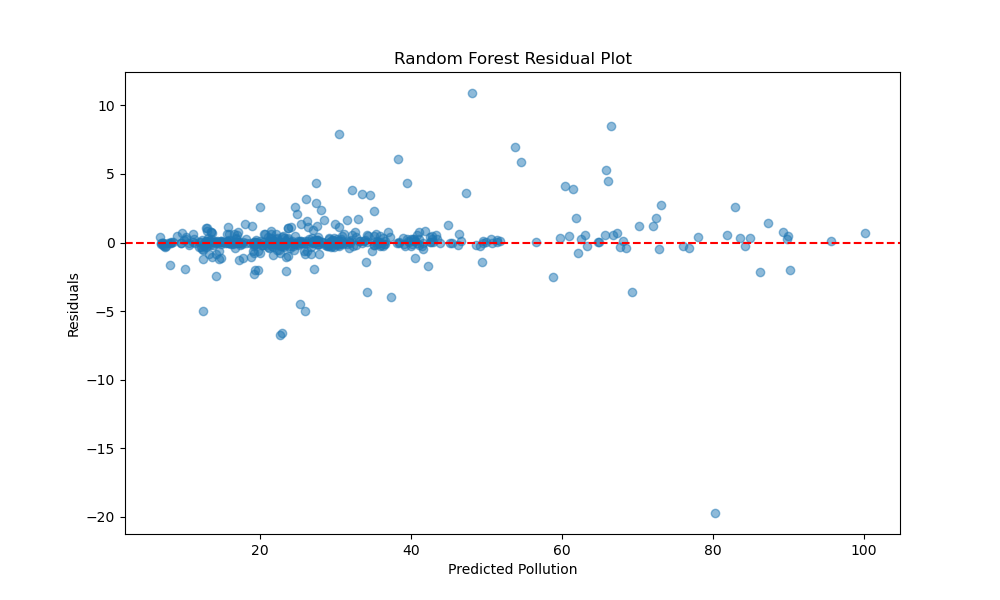
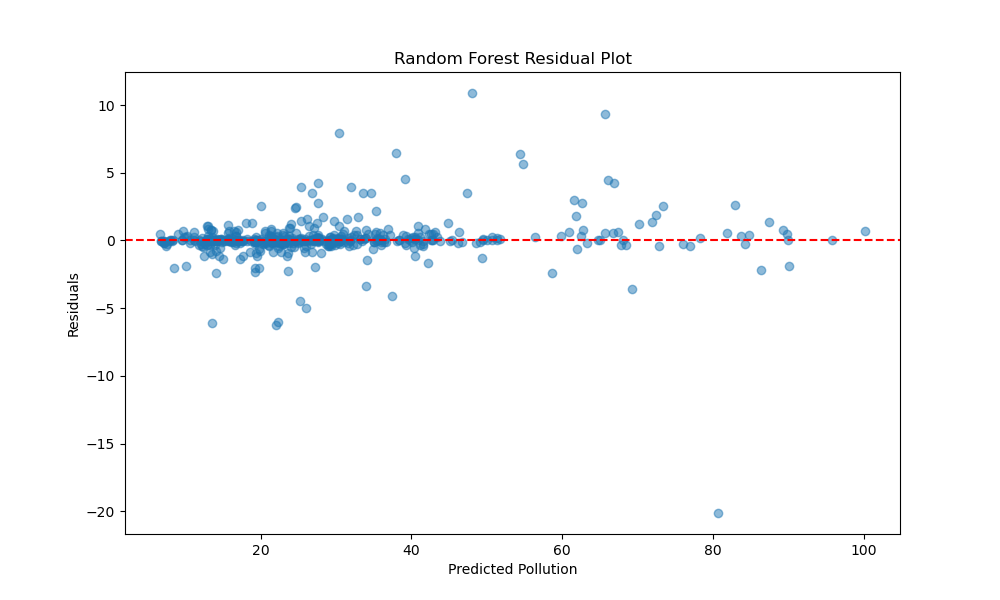
Added Grid Search to existing models.

diff --git a/linear_regression_model.py b/linear_regression_model.py
@@ -9,37 +9,26 @@ from process_data import get_processed_data
 
 def model(df):
 
-    # Selecting features and target variable
     X = df[['Population', 'CO2', 'GDP', 'Vehicles', 'VPC', 'Area']]
     y = df['Pollution']
 
-    # Splitting the data into training and testing sets
     X_train, X_test, y_train, y_test = train_test_split(X, y, test_size=0.1, random_state=42)
 
-   # Creating and training the linear regression model
     model = LinearRegression(n_jobs=-1)
     model.fit(X_train, y_train)
 
-    # Making predictions
     y_pred = model.predict(X_test)
 
-    '''for pred, test in zip(y_pred, y_test):
-        print(f'Prediction: {pred}, Actual: {test}')'''
-
-    # Evaluating the model
     mae = mean_absolute_error(y_test, y_pred)
     print("Linear Regression - Mean Absolute Error:", mae)
     mse = mean_squared_error(y_test, y_pred)
     print("Linear Regression - Mean Squared Error:", mse)
 
-    # Coefficients and intercept
     print("Coefficients:", model.coef_)
     print("Intercept:", model.intercept_)
 
-    # Calculating residuals
     residuals = y_test - y_pred
 
-    # Plotting residuals
     plt.figure(figsize=(10, 6))
     plt.scatter(y_pred, residuals, alpha=0.5)
     plt.xlabel('Predicted Pollution')

diff --git a/random_forest_model.py b/random_forest_model.py
@@ -4,6 +4,7 @@ from sklearn.ensemble import RandomForestRegressor
 from sklearn.metrics import mean_squared_error, mean_absolute_error
 import matplotlib.pyplot as plt
 from process_data import get_processed_data
+from grid_search import best_parameters
 
 
 def random_forest_model(df):
@@ -16,11 +17,16 @@ def random_forest_model(df):
     X_train, X_test, y_train, y_test = train_test_split(X, y, test_size=0.1, random_state=42)
 
     # Creating and training the Random Forest regression model
-    model = RandomForestRegressor(n_estimators=1000, n_jobs=-1, random_state=42)
-    model.fit(X_train, y_train)
+    model = RandomForestRegressor(n_jobs=-1, random_state=42)
+
+    parameters_grid = {
+        'n_estimators': [100, 200, 300, 400, 500]
+    }
+
+    best_model = best_parameters(model, parameters_grid, X_train, y_train)
 
     # Making predictions
-    y_pred = model.predict(X_test)
+    y_pred = best_model.predict(X_test)
 
     # Evaluating the model
     mae = mean_absolute_error(y_test, y_pred)
